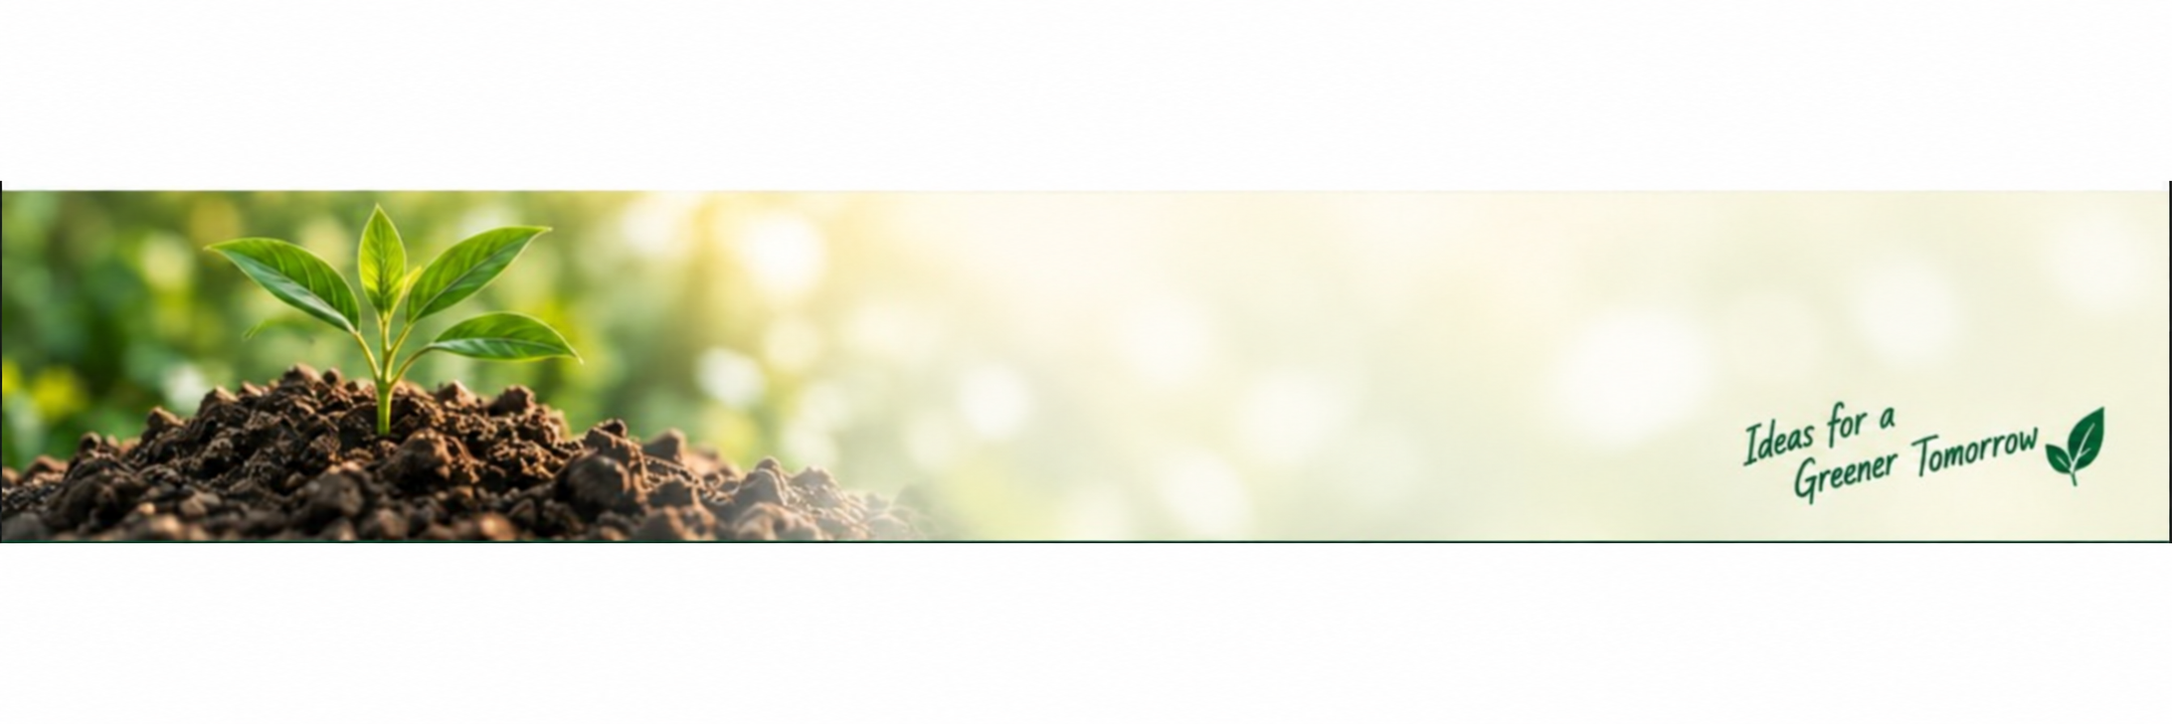
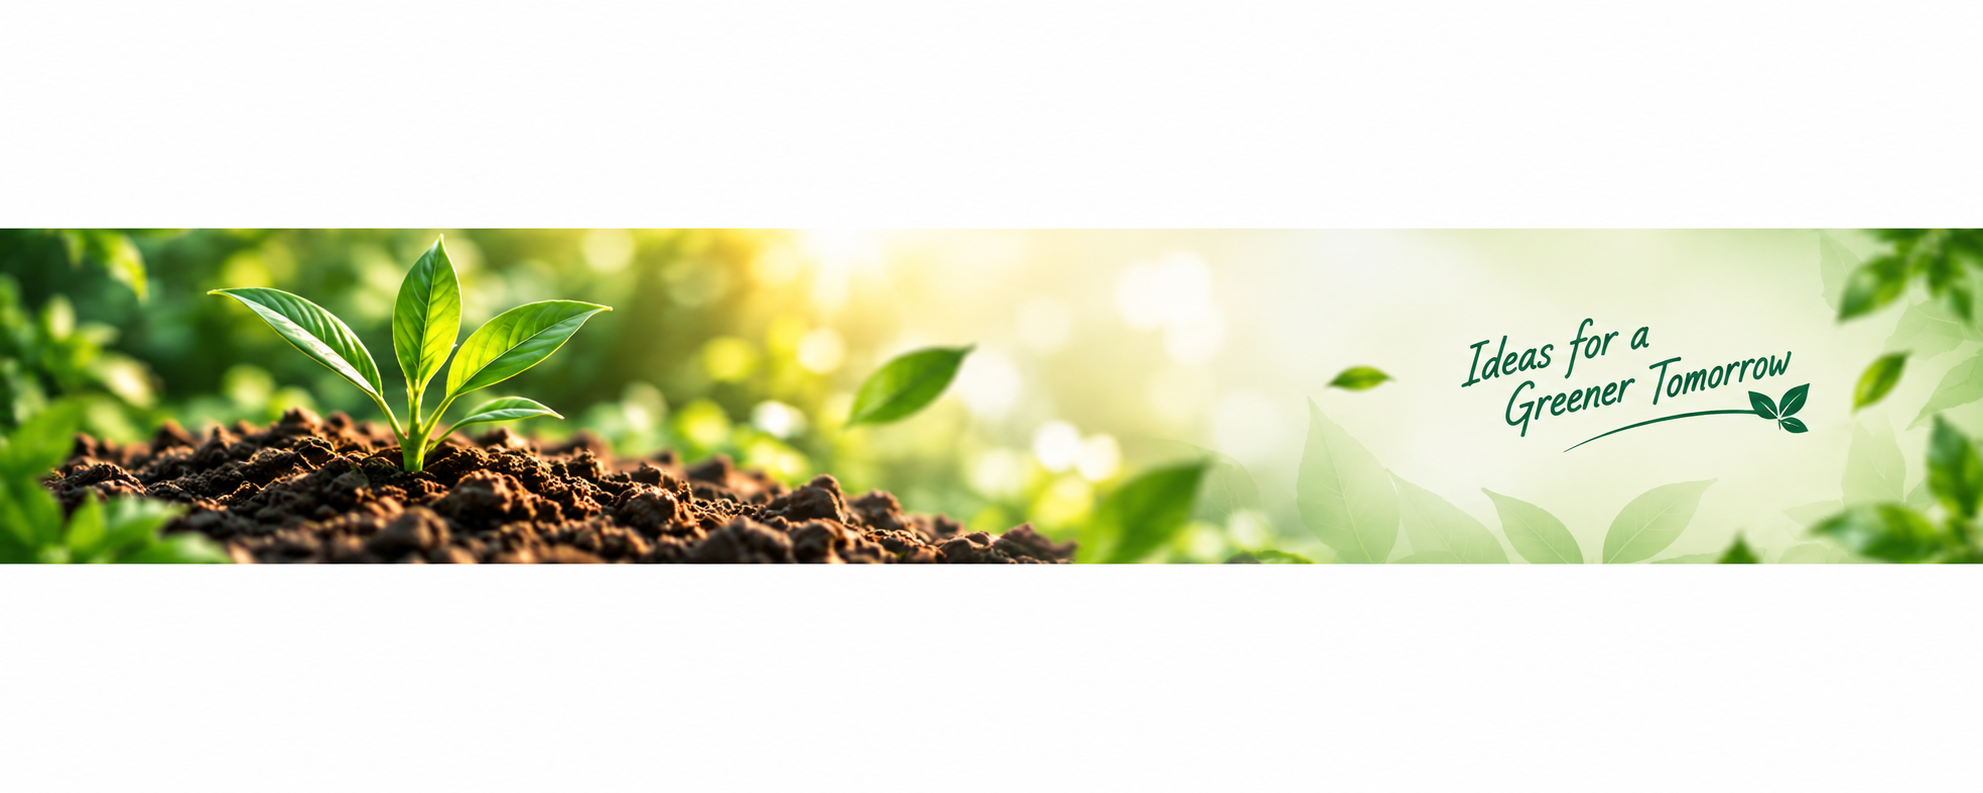
code

diff --git a/app/careers/CareersClientContent.tsx b/app/careers/CareersClientContent.tsx
@@ -452,29 +452,17 @@ export default function CareersClientContent() {
         </section>
 
         {/* BOTTOM CTA */}
-        <section className="relative h-[160px] lg:h-[160px] w-full shrink-0 overflow-hidden bg-white">
+        <section className="relative h-[160px] lg:h-[160px] mt-2 w-full shrink-0 overflow-hidden bg-white">
           <Image
-            src="/assets/careers/aman.png"
+            src="/assets/careers/aman6.png"
             alt="Careers footer banner"
             fill
             sizes="100vw"
             className="object-cover object-center"
           />
 
-          <div className="relative z-10 grid h-full grid-cols-[39%_1fr_260px] items-center gap-7 px-[clamp(24px,3.4vw,52px)]">
-            <div />
-            <div>
-              <h2 className="text-[20px] lg:text-[28px] font-semibold leading-none tracking-[-0.035em] text-[#07553a]">
-                Don’t See the Right Role?
-              </h2>
-              <p className="mt-2 max-w-[720px] text-[14px] lg:text-[17px] leading-[1.4] text-[#2a3c4e]">
-                We are always looking for passionate individuals. Send us your
-                resume and we will reach out when a suitable opportunity arises.
-              </p>
-            </div>
-            <div className="self-center text-right">
-              <ResumeUploadButton variant="solid" />
-            </div>
+          <div className="absolute inset-y-0 -top-25 right-[5%] flex items-center z-10">
+            <ResumeUploadButton variant="solid" />
           </div>
         </section>
       </div>

diff --git a/app/careers/ResumeUploadButton.tsx b/app/careers/ResumeUploadButton.tsx
@@ -22,8 +22,8 @@ export default function ResumeUploadButton({ variant = "solid" }: Props) {
   };
 
   const className = variant === "solid"
-    ? "inline-flex h-[46px] w-auto items-center justify-center gap-2 rounded-full bg-[#0a7140] px-8 text-[15px] font-bold text-white shadow-[0_4px_12px_rgba(10,113,64,0.25)] transition-all hover:-translate-y-[1px] hover:bg-[#085a33] hover:shadow-[0_6px_16px_rgba(10,113,64,0.35)] cursor-pointer"
-    : "inline-flex h-[36px] w-auto items-center justify-center gap-2 rounded-full border-2 border-[#0a7140] bg-white px-8 text-[15px] font-bold text-[#0a7140] shadow-sm transition-all hover:bg-[#f4fcf6] cursor-pointer";
+    ? "inline-flex h-[30px] w-auto items-center justify-center gap-2 rounded-lg bg-[#0a7140] px-8 text-[14px] font-semibold text-white shadow-[0_4px_12px_rgba(10,113,64,0.25)] transition-all hover:-translate-y-[1px] hover:bg-[#085a33] hover:shadow-[0_6px_16px_rgba(10,113,64,0.35)] cursor-pointer"
+    : "inline-flex h-[36px] w-auto items-center justify-center gap-2 rounded-lg border-2 border-[#0a7140] bg-white px-8 text-[15px] font-bold text-[#0a7140] shadow-sm transition-all hover:bg-[#f4fcf6] cursor-pointer";
 
   return (
     <label className={className}>
